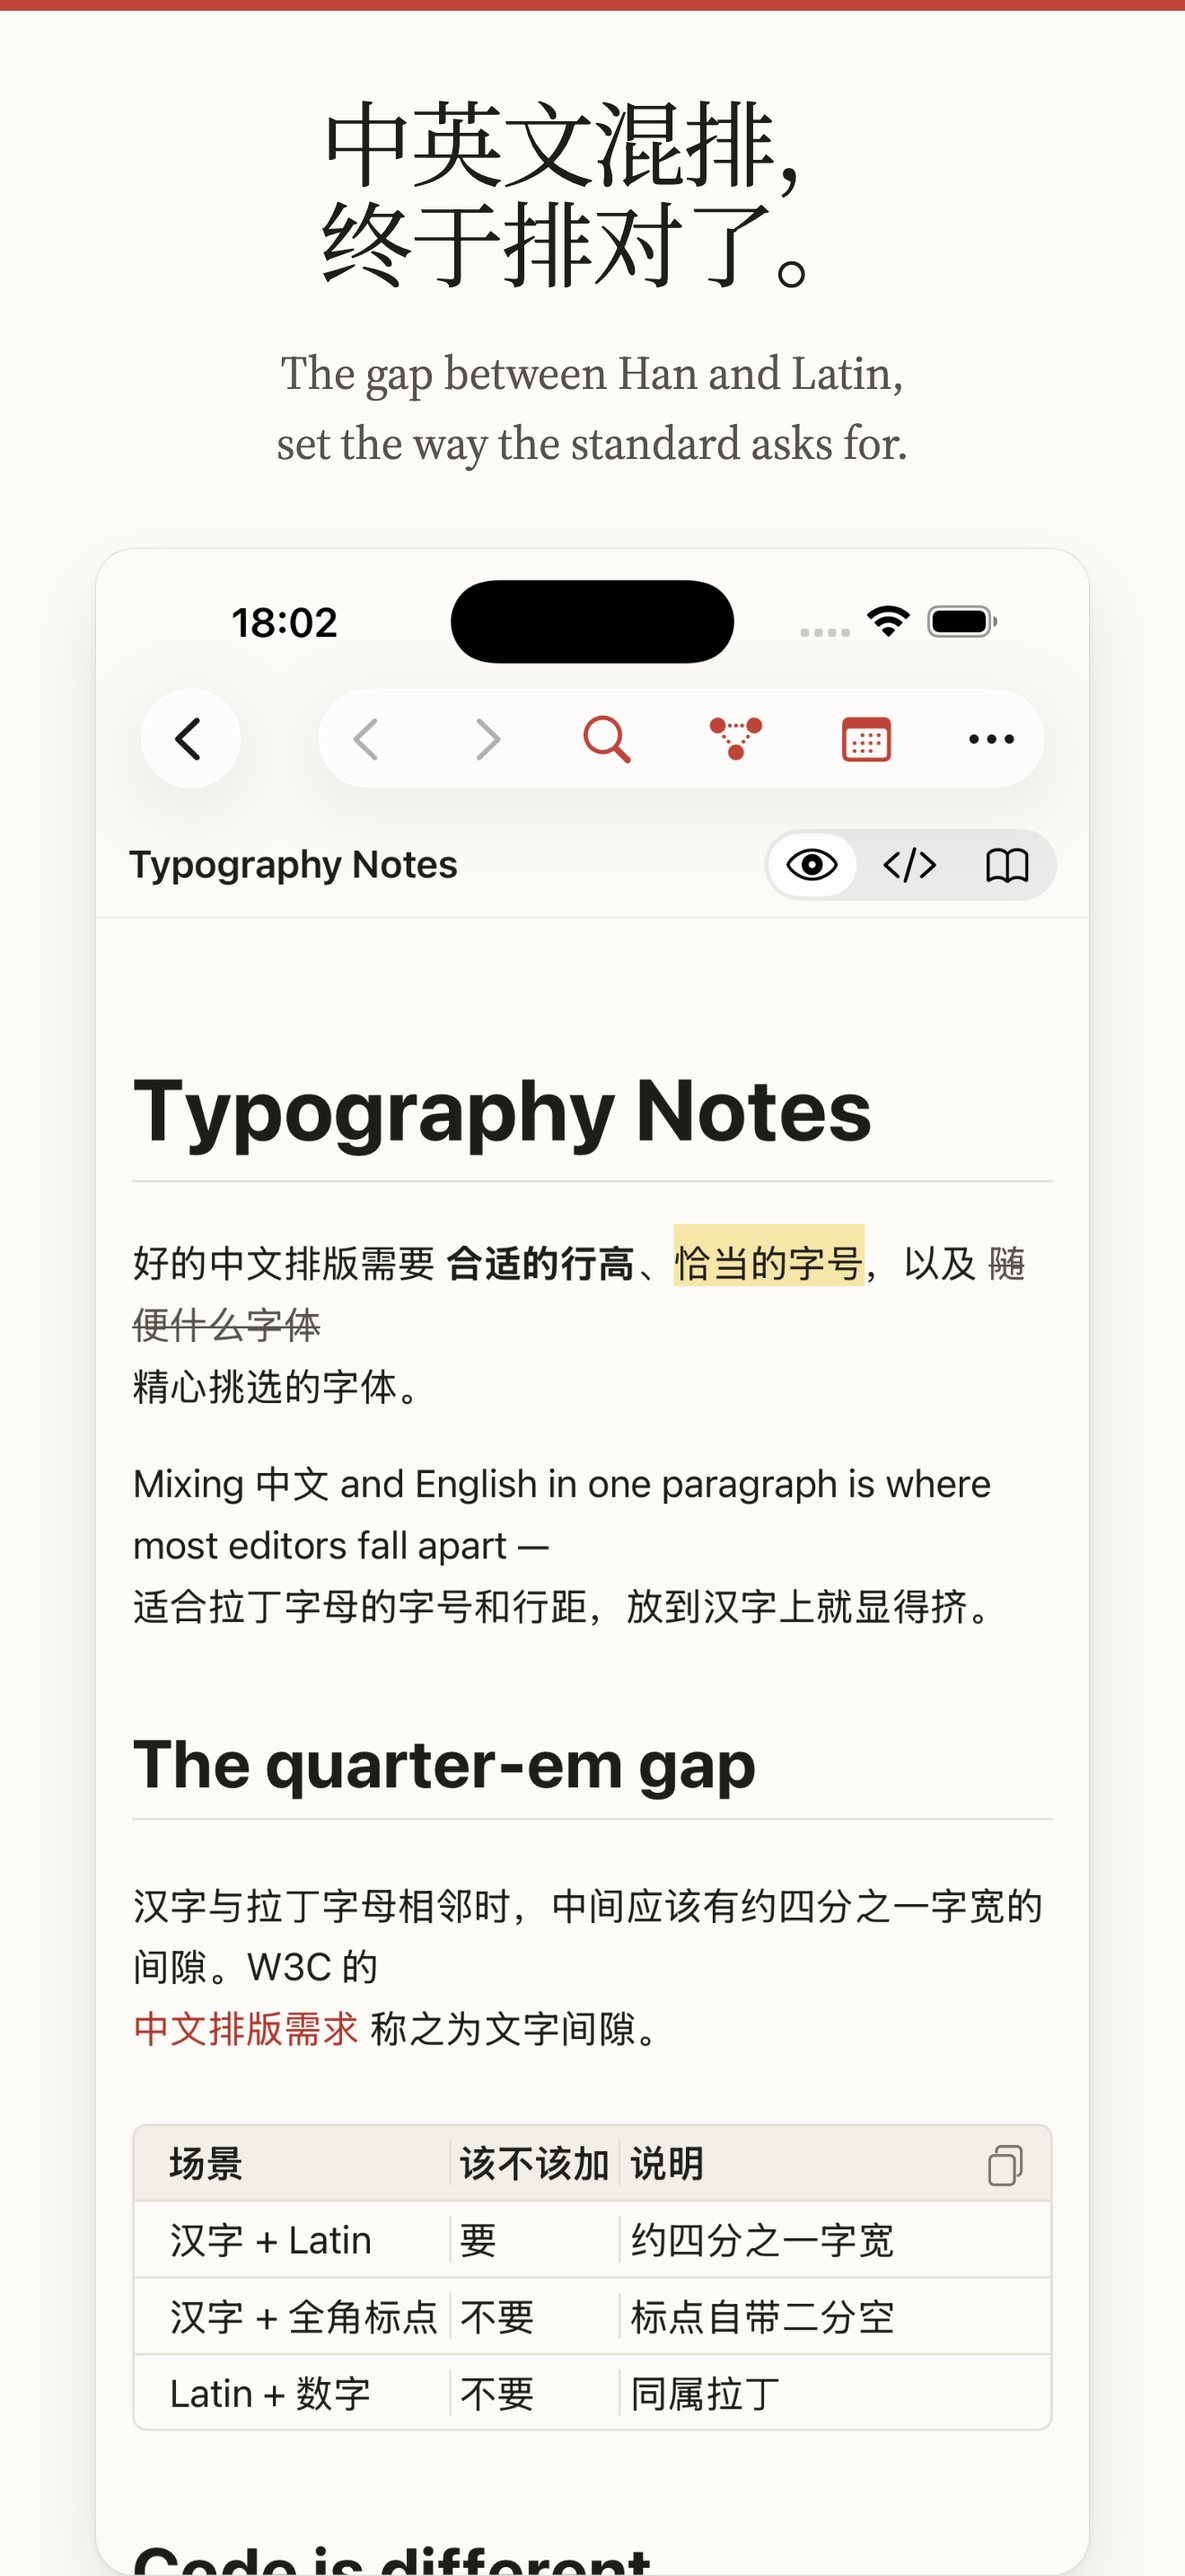
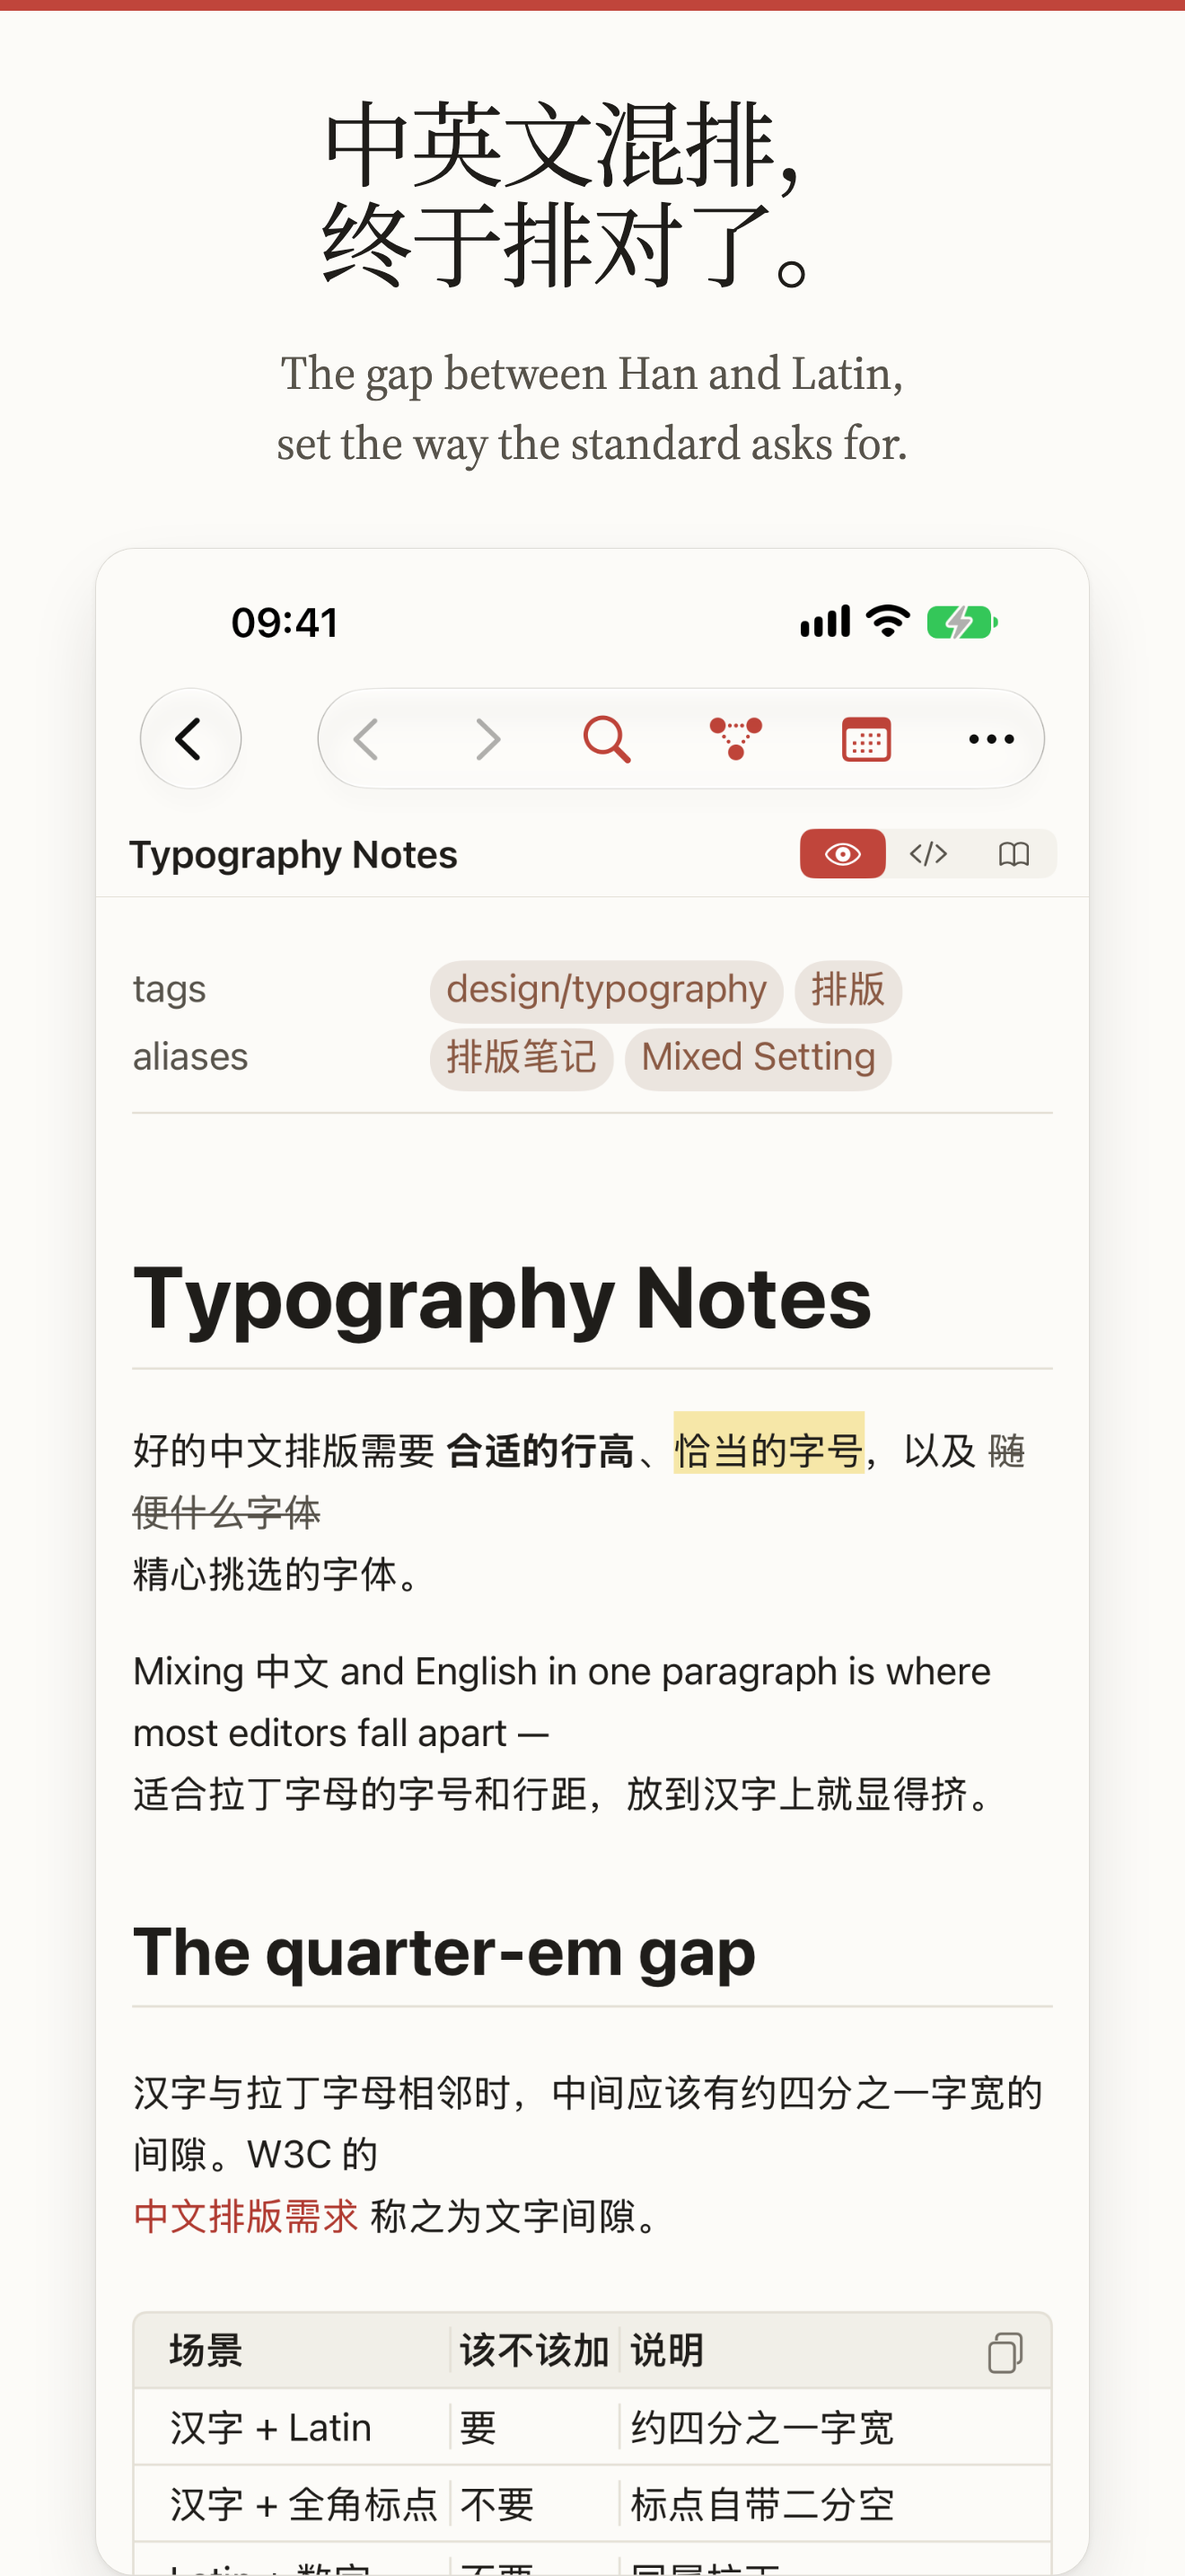
Release 0.3.0: privacy manifest, store screenshots and listing, review notes
- Version 0.3.0 (11) on Mac and iOS.
- PrivacyInfo.xcprivacy: no tracking, no collected data; required-reason
  APIs declared as the code uses them (UserDefaults CA92.1, file
  timestamps 3B52.1/C617.1, system boot time 35F9.1). There was none.
- Store screenshots retaken on iOS 27.2 at 1320x2868 / 2064x2752 with the
  new iPhone UI, composed by make-store-shots.py, and uploaded composed.
  capture-ios-shots.sh drives the graph and search through DemoDirector
  (Simulator.app, which it used to click, is gone in Xcode 27) and pins the
  status bar to 9:41.
- Listing: release notes for 0.3; the description no longer says sync
  conflicts are settled without two copies (they are kept as a conflict
  copy, by design); find and replace and iPhone Duo added.
- Review notes (fastlane/review_notes.txt) describe the real first launch —
  the old notes promised a sample vault the app never creates.
- fastlane: automatic release after approval (James, 2026-11-18); a
  'prepare' lane that uploads without submitting, so the review contact
  stays in App Store Connect rather than in this public repository.
- package-ios.sh: the signature check exited 141 (awk exit → SIGPIPE under
  pipefail) after a good export.
- docs/releases/0.3.0.md: notes for the GitHub release.

diff --git a/App/Support/DemoDirector.swift b/App/Support/DemoDirector.swift
@@ -15,6 +15,8 @@ import InkstoneCore
 ///     heading The Measure       scroll the open note to a heading
 ///     inspector on|off          show / hide the inspector
 ///     switcher on|off           show / hide the quick switcher
+///     switcher <query>          open the quick switcher with a query typed
+///     graph                     open the graph (of the open note, or the vault)
 ///     back                      go back
 ///     close                     close the open note (back to the list on iPhone)
 ///
@@ -69,7 +71,11 @@ enum DemoDirector {
         case "inspector":
             workspace.isInspectorPresented = arg == "on"
         case "switcher":
-            workspace.isQuickSwitcherPresented = arg == "on"
+            // `switcher on|off`, or `switcher <query>` to open it with a query.
+            if arg != "on", arg != "off" { workspace.quickSwitcherSeed = arg }
+            workspace.isQuickSwitcherPresented = arg != "off"
+        case "graph":
+            workspace.open(.graph(focus: workspace.activeTab?.url))
         case "back":
             workspace.goBack()
         case "close":

diff --git a/App/Views/QuickSwitcherView.swift b/App/Views/QuickSwitcherView.swift
@@ -74,7 +74,15 @@ struct QuickSwitcherView: View {
         }
         .frame(minWidth: 440, minHeight: 380)
         .background(style.background)
-        .onAppear { isFieldFocused = true }
+        .onAppear {
+            isFieldFocused = true
+            #if DEBUG
+            if !workspace.quickSwitcherSeed.isEmpty {
+                query = workspace.quickSwitcherSeed
+                workspace.quickSwitcherSeed = ""
+            }
+            #endif
+        }
         // Also covers the first appearance, so the switcher opens showing the
         // whole vault rather than an empty list.
         .task(id: query) { await refresh() }

diff --git a/App/Model/Workspace.swift b/App/Model/Workspace.swift
@@ -225,6 +225,12 @@ final class Workspace {
 
     var sidebarSection: SidebarSection = .files
 
+    #if DEBUG
+    /// Text the quick switcher opens with, for scripted screenshots
+    /// (DemoDirector's `switcher <query>`). Consumed on appearance.
+    var quickSwitcherSeed = ""
+    #endif
+
     /// Whether the inspector (properties, backlinks, outline) is showing.
     ///
     /// Here rather than in the root view so a menu command (⌥⌘I) can toggle

diff --git a/docs/releases/0.3.0.md b/docs/releases/0.3.0.md
@@ -1,0 +1,24 @@
+## Inkstone 0.3.0
+
+**Find and replace** inside a note — Edit › Find… (⌘F), Find and Replace… (⌥⌘F), Find Next (⌘G); on iPhone and iPad, the Find in Note toolbar button.
+
+**GitHub sync is safer.** Fixed cases that could delete or bring back notes:
+- renaming a note by changing only its capitalisation (`note.md` → `Note.md`);
+- hidden files in the repository (such as `.github/`);
+- files that could not be read, or were still only in iCloud;
+- very large repositories whose file list GitHub cuts short;
+- notes that were identical on both sides when a second device joined.
+
+Typing during a sync is never overwritten, a failed token stops the sync instead of reporting success, and conflict copies never overwrite each other.
+
+**Sync health** (Settings › Sync): when the last sync finished, every failed file, every conflict copy, and **Preview Next Sync** — what the next sync would upload, download or delete, before it does anything.
+
+**Markdown reads the way Obsidian reads it.** Prices such as `A$220` are no longer taken for maths; bare web addresses are links; tags follow Obsidian's rules (`#a#b` is two tags, `#tag` after full-width punctuation is not a tag).
+
+**Mac shortcuts:** Search Vault ⇧⌘F, Calendar ⇧⌘L, Show/Hide Inspector ⌥⌘I, Source Mode ⌥⌘E, Reading Mode ⇧⌘E.
+
+**Faster:** large vaults open without freezing the window; saving reindexes only what changed; long notes stay quick to type in on iPhone.
+
+**iPhone and iPhone Duo:** larger rows, swipe actions, a bottom bar to jump to or create a note, the inspector as a sheet; on iPhone Duo, half-open puts the note on one side of the crease and its backlinks, outline and properties on the other.
+
+**Rebuild Index** (Settings, View menu) for files changed elsewhere with their dates preserved.
